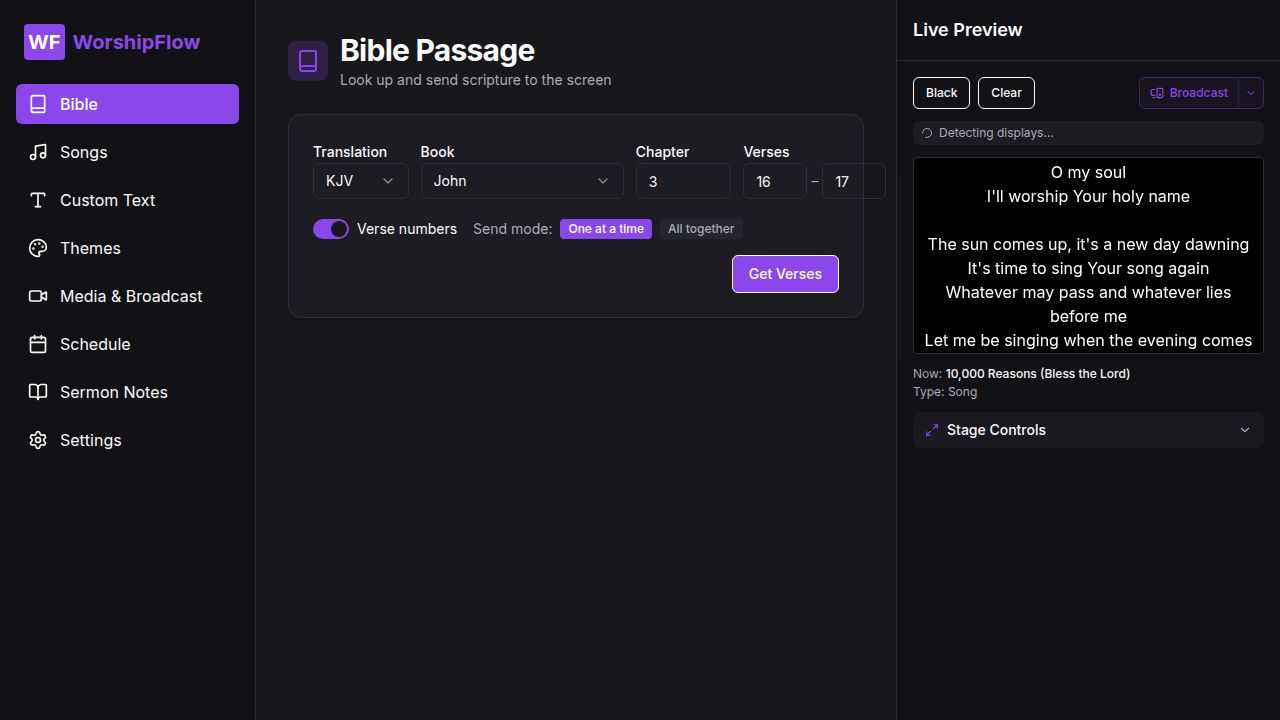
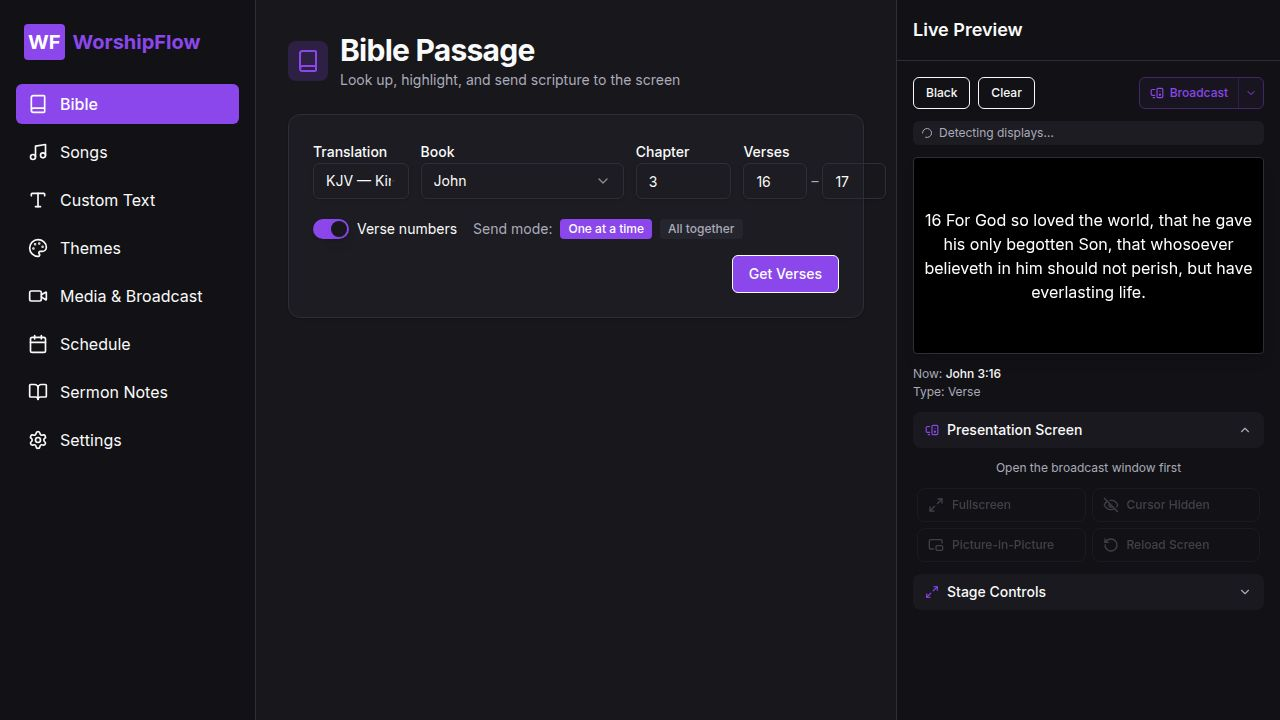
Improve media uploading with image compression and customization options
Enhance the media upload feature by implementing logo image compression, adding per-file customization options (fit mode, loop for videos), and increasing the JSON request body limit to 10MB.

Replit-Commit-Author: Agent
Replit-Commit-Session-Id: 596ccc0f-4522-4ff2-a4b1-2abd9db3a670
Replit-Commit-Checkpoint-Type: full_checkpoint
Replit-Commit-Event-Id: 0e5cf521-a1fb-4ccd-8393-b370681867de
Replit-Commit-Screenshot-Url: https://storage.googleapis.com/screenshot-production-us-central1/bea252b3-71d9-4e59-bc2b-c70a28f977e8/596ccc0f-4522-4ff2-a4b1-2abd9db3a670/40TxcNy
Replit-Helium-Checkpoint-Created: true

diff --git a/artifacts/worshipflow/src/pages/media.tsx b/artifacts/worshipflow/src/pages/media.tsx
@@ -24,6 +24,8 @@ interface UploadedFile {
   url: string;
   type: "image" | "video";
   size: string;
+  fit: "cover" | "contain" | "fill";
+  loop: boolean;
 }
 
 function formatBytes(bytes: number) {
@@ -176,14 +178,34 @@ export default function MediaPage() {
   const updateOverlay = (patch: Partial<ReturnType<typeof safeFullState>>) =>
     updateScreen({ data: { ...safeFullState(), ...patch } });
 
-  const handleLogoFile = (file: File) => {
-    const reader = new FileReader();
-    reader.onload = (e) => {
-      const dataUrl = e.target?.result as string;
+  /** Compress a logo image to ≤400px PNG (preserves transparency). */
+  const compressLogoImage = (file: File): Promise<string> =>
+    new Promise((resolve, reject) => {
+      const blobUrl = URL.createObjectURL(file);
+      const img = new Image();
+      img.onload = () => {
+        const MAX = 400;
+        const scale = Math.min(1, MAX / Math.max(img.naturalWidth, img.naturalHeight));
+        const w = Math.round(img.naturalWidth * scale);
+        const h = Math.round(img.naturalHeight * scale);
+        const canvas = document.createElement("canvas");
+        canvas.width = w; canvas.height = h;
+        canvas.getContext("2d")!.drawImage(img, 0, 0, w, h);
+        URL.revokeObjectURL(blobUrl);
+        resolve(canvas.toDataURL("image/png"));
+      };
+      img.onerror = () => { URL.revokeObjectURL(blobUrl); reject(); };
+      img.src = blobUrl;
+    });
+
+  const handleLogoFile = async (file: File) => {
+    try {
+      const dataUrl = await compressLogoImage(file);
       setLogoUrlDraft(dataUrl);
       setLogoUrlInput("");
-    };
-    reader.readAsDataURL(file);
+    } catch {
+      toast({ title: "Failed to load logo image", variant: "destructive" });
+    }
   };
 
   useEffect(() => {
@@ -212,14 +234,17 @@ export default function MediaPage() {
 
   const sendCameraToScreen = () => updateScreen({ data: { ...safeFullState(), isBlack: false, isClear: false, contentType: "custom_text" as const, background: { type: "camera", value: "camera", overlay: overlay[0] } } });
 
-  const sendImageToScreen = async (url: string) => {
+  const sendImageToScreen = async (url: string, fit: "cover" | "contain" | "fill" = "cover") => {
     if (!url) return;
     // Convert blob URLs to data URLs so they work in the broadcast window
     const resolved = url.startsWith("blob:") ? await blobToDataUrl(url).catch(() => url) : url;
-    updateScreen({ data: { ...safeFullState(), isBlack: false, isClear: false, contentType: "image" as const, background: { type: "image", value: resolved, overlay: overlay[0] } } });
+    updateScreen({ data: { ...safeFullState(), isBlack: false, isClear: false, contentType: "image" as const, background: { type: "image", value: resolved, overlay: overlay[0], fit } } });
   };
 
-  const sendVideoToScreen = (url: string) => { if (!url) return; updateScreen({ data: { ...safeFullState(), isBlack: false, isClear: false, contentType: "video" as const, background: { type: "video", value: url, overlay: overlay[0] } } }); };
+  const sendVideoToScreen = (url: string, fit: "cover" | "contain" | "fill" = "cover", loop = true) => {
+    if (!url) return;
+    updateScreen({ data: { ...safeFullState(), isBlack: false, isClear: false, contentType: "video" as const, background: { type: "video", value: url, overlay: overlay[0], fit, loop } } });
+  };
 
   const handleFileUpload = useCallback((files: FileList | null) => {
     if (!files) return;
@@ -238,9 +263,14 @@ export default function MediaPage() {
         url,
         type: isImage ? "image" : "video",
         size: formatBytes(file.size),
+        fit: "cover",
+        loop: true,
       }]);
     });
   }, [toast]);
+
+  const updateFile = (id: string, patch: Partial<UploadedFile>) =>
+    setUploadedFiles(prev => prev.map(f => f.id === id ? { ...f, ...patch } : f));
 
   const removeFile = (id: string) => {
     setUploadedFiles(prev => {
@@ -346,9 +376,9 @@ export default function MediaPage() {
                 <Card key={f.id} className="overflow-hidden">
                   <div className="relative aspect-video bg-black">
                     {f.type === "image" ? (
-                      <img src={f.url} alt={f.name} className="w-full h-full object-cover" />
+                      <img src={f.url} alt={f.name} className={`w-full h-full ${f.fit === "contain" ? "object-contain" : f.fit === "fill" ? "object-fill" : "object-cover"}`} />
                     ) : (
-                      <video src={f.url} className="w-full h-full object-cover" muted playsInline />
+                      <video src={f.url} className={`w-full h-full ${f.fit === "contain" ? "object-contain" : f.fit === "fill" ? "object-fill" : "object-cover"}`} muted playsInline />
                     )}
                     <button
                       onClick={() => removeFile(f.id)}
@@ -360,13 +390,41 @@ export default function MediaPage() {
                       {f.type}
                     </Badge>
                   </div>
-                  <CardContent className="p-2 space-y-1.5">
+                  <CardContent className="p-2 space-y-2">
                     <p className="text-xs font-medium truncate" title={f.name}>{f.name}</p>
-                    <p className="text-xs text-muted-foreground">{f.size}</p>
+
+                    {/* Fit mode */}
+                    <div className="flex gap-1">
+                      {(["cover", "contain", "fill"] as const).map(mode => (
+                        <button
+                          key={mode}
+                          onClick={() => updateFile(f.id, { fit: mode })}
+                          className={`flex-1 py-0.5 rounded text-[10px] border transition-colors capitalize ${f.fit === mode ? "bg-primary/20 border-primary text-primary" : "border-border text-muted-foreground hover:bg-muted/40"}`}
+                        >
+                          {mode}
+                        </button>
+                      ))}
+                    </div>
+
+                    {/* Loop toggle for videos */}
+                    {f.type === "video" && (
+                      <div className="flex items-center justify-between">
+                        <span className="text-[10px] text-muted-foreground">Loop video</span>
+                        <Switch
+                          checked={f.loop}
+                          onCheckedChange={v => updateFile(f.id, { loop: v })}
+                          className="scale-75 origin-right"
+                        />
+                      </div>
+                    )}
+
                     <Button
                       size="sm"
                       className="w-full gap-1.5 h-7 text-xs"
-                      onClick={() => f.type === "image" ? sendImageToScreen(f.url) : sendVideoToScreen(f.url)}
+                      onClick={() => f.type === "image"
+                        ? sendImageToScreen(f.url, f.fit)
+                        : sendVideoToScreen(f.url, f.fit, f.loop)
+                      }
                     >
                       <Cast className="w-3 h-3" /> Send to Screen
                     </Button>

diff --git a/artifacts/worshipflow/src/pages/broadcast.tsx b/artifacts/worshipflow/src/pages/broadcast.tsx
@@ -225,21 +225,25 @@ function BackgroundLayer({ background, cameraStream }: {
   if (background.type === "gradient")
     return <div className="absolute inset-0" style={{ background: background.value || "linear-gradient(135deg,#1e1b4b,#000)" }} />;
 
-  if (background.type === "image" && background.value)
+  if (background.type === "image" && background.value) {
+    const fitClass = background.fit === "contain" ? "object-contain" : background.fit === "fill" ? "object-fill" : "object-cover";
     return (
-      <div className="absolute inset-0">
-        <img src={background.value} alt="" className="w-full h-full object-cover" />
+      <div className="absolute inset-0 bg-black">
+        <img src={background.value} alt="" className={`w-full h-full ${fitClass}`} />
         {overlayStyle && <div className="absolute inset-0" style={overlayStyle} />}
       </div>
     );
+  }
 
-  if (background.type === "video" && background.value)
+  if (background.type === "video" && background.value) {
+    const fitClass = background.fit === "contain" ? "object-contain" : background.fit === "fill" ? "object-fill" : "object-cover";
     return (
-      <div className="absolute inset-0">
-        <video ref={videoRef} className="w-full h-full object-cover" autoPlay loop muted playsInline />
+      <div className="absolute inset-0 bg-black">
+        <video ref={videoRef} className={`w-full h-full ${fitClass}`} autoPlay loop={background.loop !== false} muted playsInline />
         {overlayStyle && <div className="absolute inset-0" style={overlayStyle} />}
       </div>
     );
+  }
 
   if (background.type === "camera")
     return (

diff --git a/artifacts/api-server/src/app.ts b/artifacts/api-server/src/app.ts
@@ -26,8 +26,8 @@ app.use(
   }),
 );
 app.use(cors());
-app.use(express.json());
-app.use(express.urlencoded({ extended: true }));
+app.use(express.json({ limit: "10mb" }));
+app.use(express.urlencoded({ extended: true, limit: "10mb" }));
 
 app.use("/api", router);
 

diff --git a/lib/db/src/schema/screen.ts b/lib/db/src/schema/screen.ts
@@ -17,6 +17,8 @@ export interface Background {
   type: "color" | "gradient" | "image" | "video" | "camera" | "live_wallpaper";
   value: string;
   overlay?: number;
+  fit?: "cover" | "contain" | "fill";
+  loop?: boolean;
 }
 
 export interface Layout {